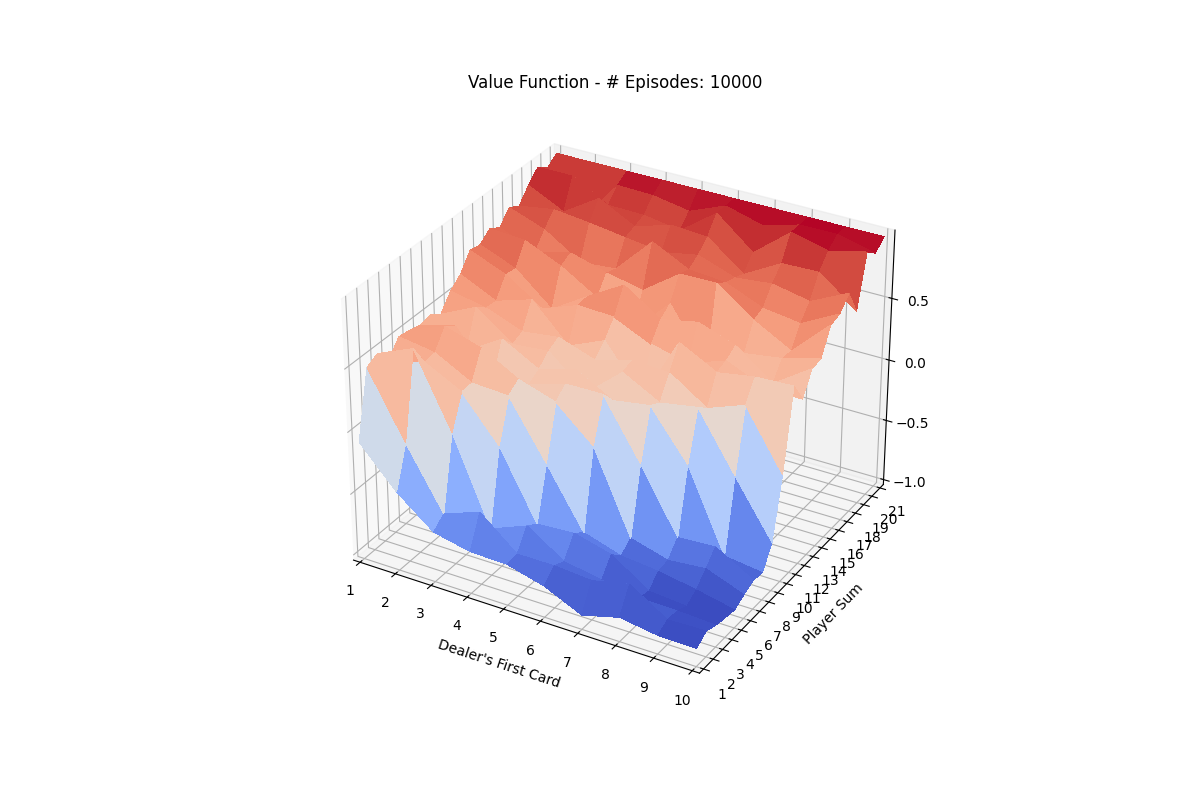
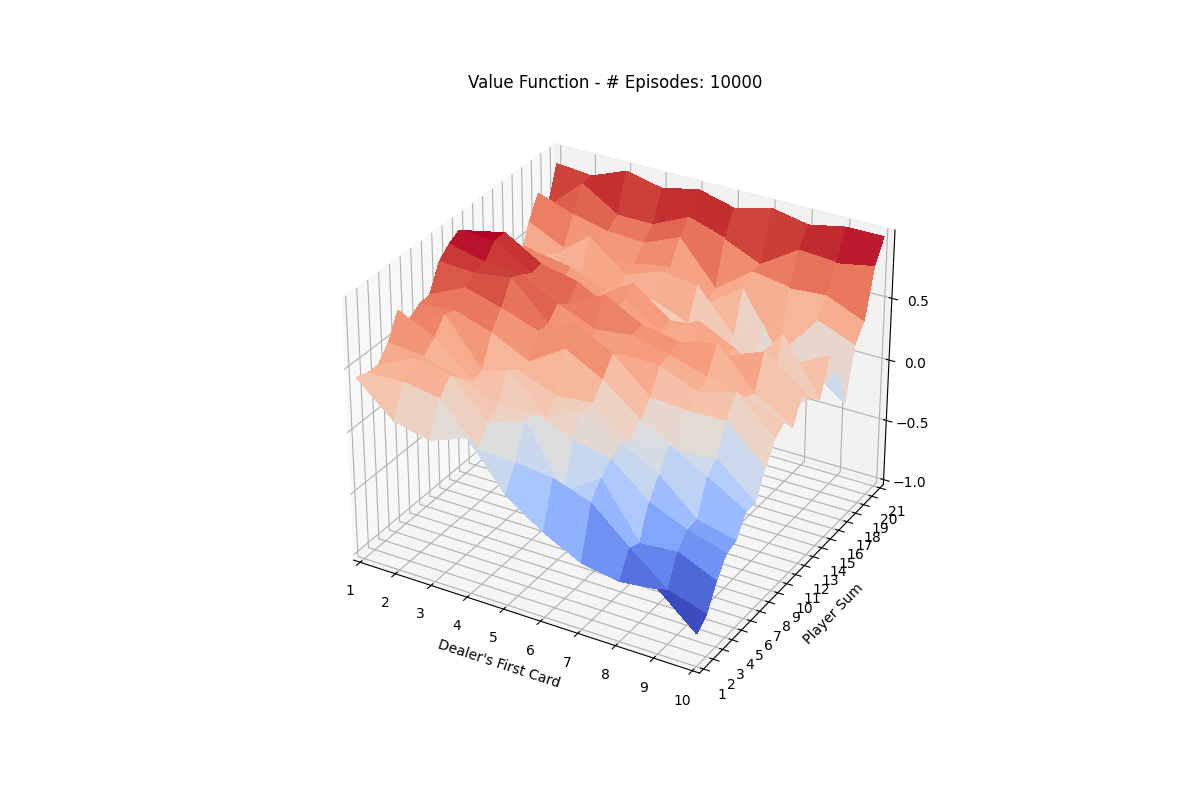
fix: fix how rewards are being calculated and update results

Changed region(s): [[0.2775, 0.1875, 0.74, 0.8125]]

diff --git a/src/monte-carlo/easy21.py b/src/monte-carlo/easy21.py
@@ -37,33 +37,28 @@ class Easy21():
         self.dealer.start()
         self.turn = 'p'
 
-    def player_step(self, s, a):
+    def step(self, s, a):
+        new_state = self.player.step(s, a)
         if a == 's':
-            self.turn = 'd'
-        return self.player.step(s, a)
+            while not self.over:
+                self.dealer.step()
 
+        reward = self.decide_reward()
+        
+        return new_state, reward
 
-    def dealer_step(self):
-        self.dealer.step()
-
-    def decide_rewards(self):
-        """Decide rewards for an episode."""
-        rewards = []
-
-        # Iterate over every player sum
-        for player_sum in self.player.sums:
-            if player_sum < 1 or player_sum > 21:
+    def decide_reward(self):
+        """Decide reward for a step of an episode."""
+        if self.player.sum < 1 or self.player.sum > 21:
+            reward = -1
+        elif self.dealer.busted:
+            reward = +1
+        else:
+            if self.dealer.sum > self.player.sum:
                 reward = -1
-            elif self.dealer.busted:
+            elif self.player.sum > self.dealer.sum:
                 reward = +1
             else:
-                if self.dealer.sum > player_sum:
-                    reward = -1
-                elif player_sum > self.dealer.sum:
-                    reward = +1
-                else:
-                    reward = 0
+                reward = 0
 
-            rewards.append(reward)
-
-        return rewards
+        return reward

diff --git a/src/monte-carlo/monte_carlo.py b/src/monte-carlo/monte_carlo.py
@@ -45,13 +45,8 @@ class MonteCarlo():
                 actions.append(action)
 
                 # Player does 1 step and get possible reward
-                state = self.game.player_step(state, action)
-            else:
-                # The dealer is part of the environment
-                self.game.dealer_step()
-
-        # Decide reward
-        rewards = self.game.decide_rewards()
+                state, reward = self.game.step(state, action)
+                rewards.append(reward)
         
         # Return the list of states, actions, and rewards during this episode
         # print(f"Player {self.game.player.sum} vs. Dealer {self.game.dealer.sum}")
@@ -80,7 +75,7 @@ class MonteCarlo():
 
                 # Update the action value functions
                 N = self.H_sa.get(state, action)
-                self.Qs.add(state, action, G, N)
+                self.Qs.update(state, action, G, N)
 
             # For large runs, print out the progress intermittently
             if i % num_iter == 0:

diff --git a/src/monte-carlo/mc_functions.py b/src/monte-carlo/mc_functions.py
@@ -47,7 +47,7 @@ class ActionValueFunctions():
                      for p_sum in range(1, 22)
                      for action in ['h', 's']}
         
-    def add(self, s: State, a: str, G: int, N: int):
+    def update(self, s: State, a: str, G: int, N: int):
         """Increases the AVF value based on the episode score G and the count of
         the current state-action pairs N."""
         Q = self.avfs[(str(s.d_first_card), s.p_sum, a)]
